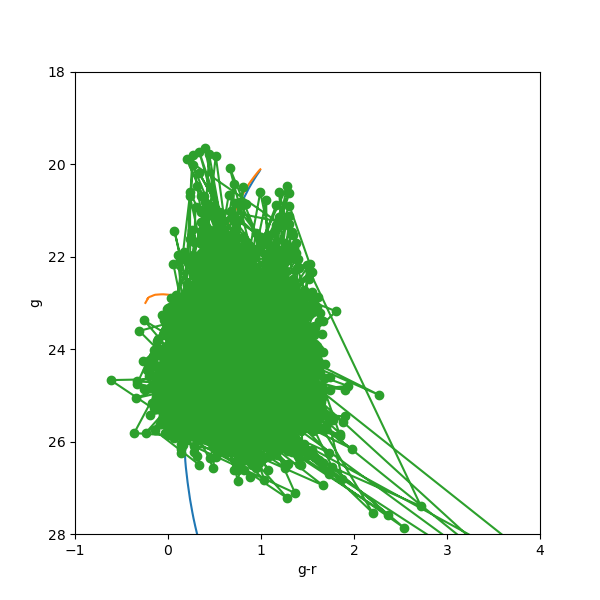
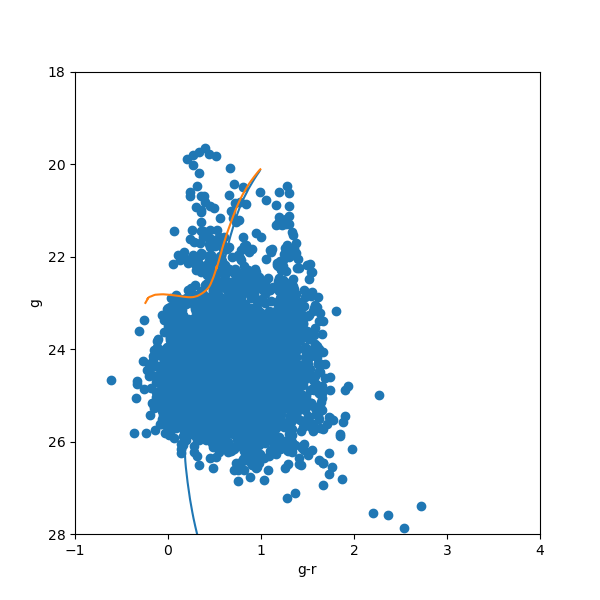
More iso cut edits

Changed region(s): [[0.18, 0.24, 0.78, 0.9], [0.81, 0.87, 0.84, 0.9], [0.78, 0.84, 0.81, 0.87]]

diff --git a/lsst_ufd/alfred.py b/lsst_ufd/alfred.py
@@ -100,14 +100,15 @@ r = flux2mag(data['r_psfFlux'])
 g_err = flux2mag(data['g_psfFluxErr'])
 r_err = flux2mag(data['r_psfFluxErr'])
 cut = cut_isochrone_path(g, r, g_err, r_err, iso)
-data = data[cut]
+isocut_data = data[cut]
 
 fig, ax = plt.subplots(1,1, figsize=(6,6))
 index = np.min(np.where(iso.stage == iso.hb_stage)[0]) + 1
 ax.set(xlabel = 'g-r', ylabel = 'g', xlim = (-1,4), ylim = (28,18))
 ax.plot(iso.mag_1[0:index] - iso.mag_2[0:index], iso.mag_1[0:index] + distance_modulus)
 ax.plot(iso.mag_1[index:] - iso.mag_2[index:], iso.mag_1[index:] + distance_modulus)
-ax.plot(flux2mag(data['g_psfFlux'])-flux2mag(data['r_psfFlux']), flux2mag(data['g_psfFlux']), marker = 'o')
+ax.scatter(flux2mag(isocut_data['g_psfFlux']) - flux2mag(isocut_data['r_psfFlux']), 
+           flux2mag(isocut_data['g_psfFlux']))
 
 plt.savefig(plots_dir + '/iso_test.png')
 
